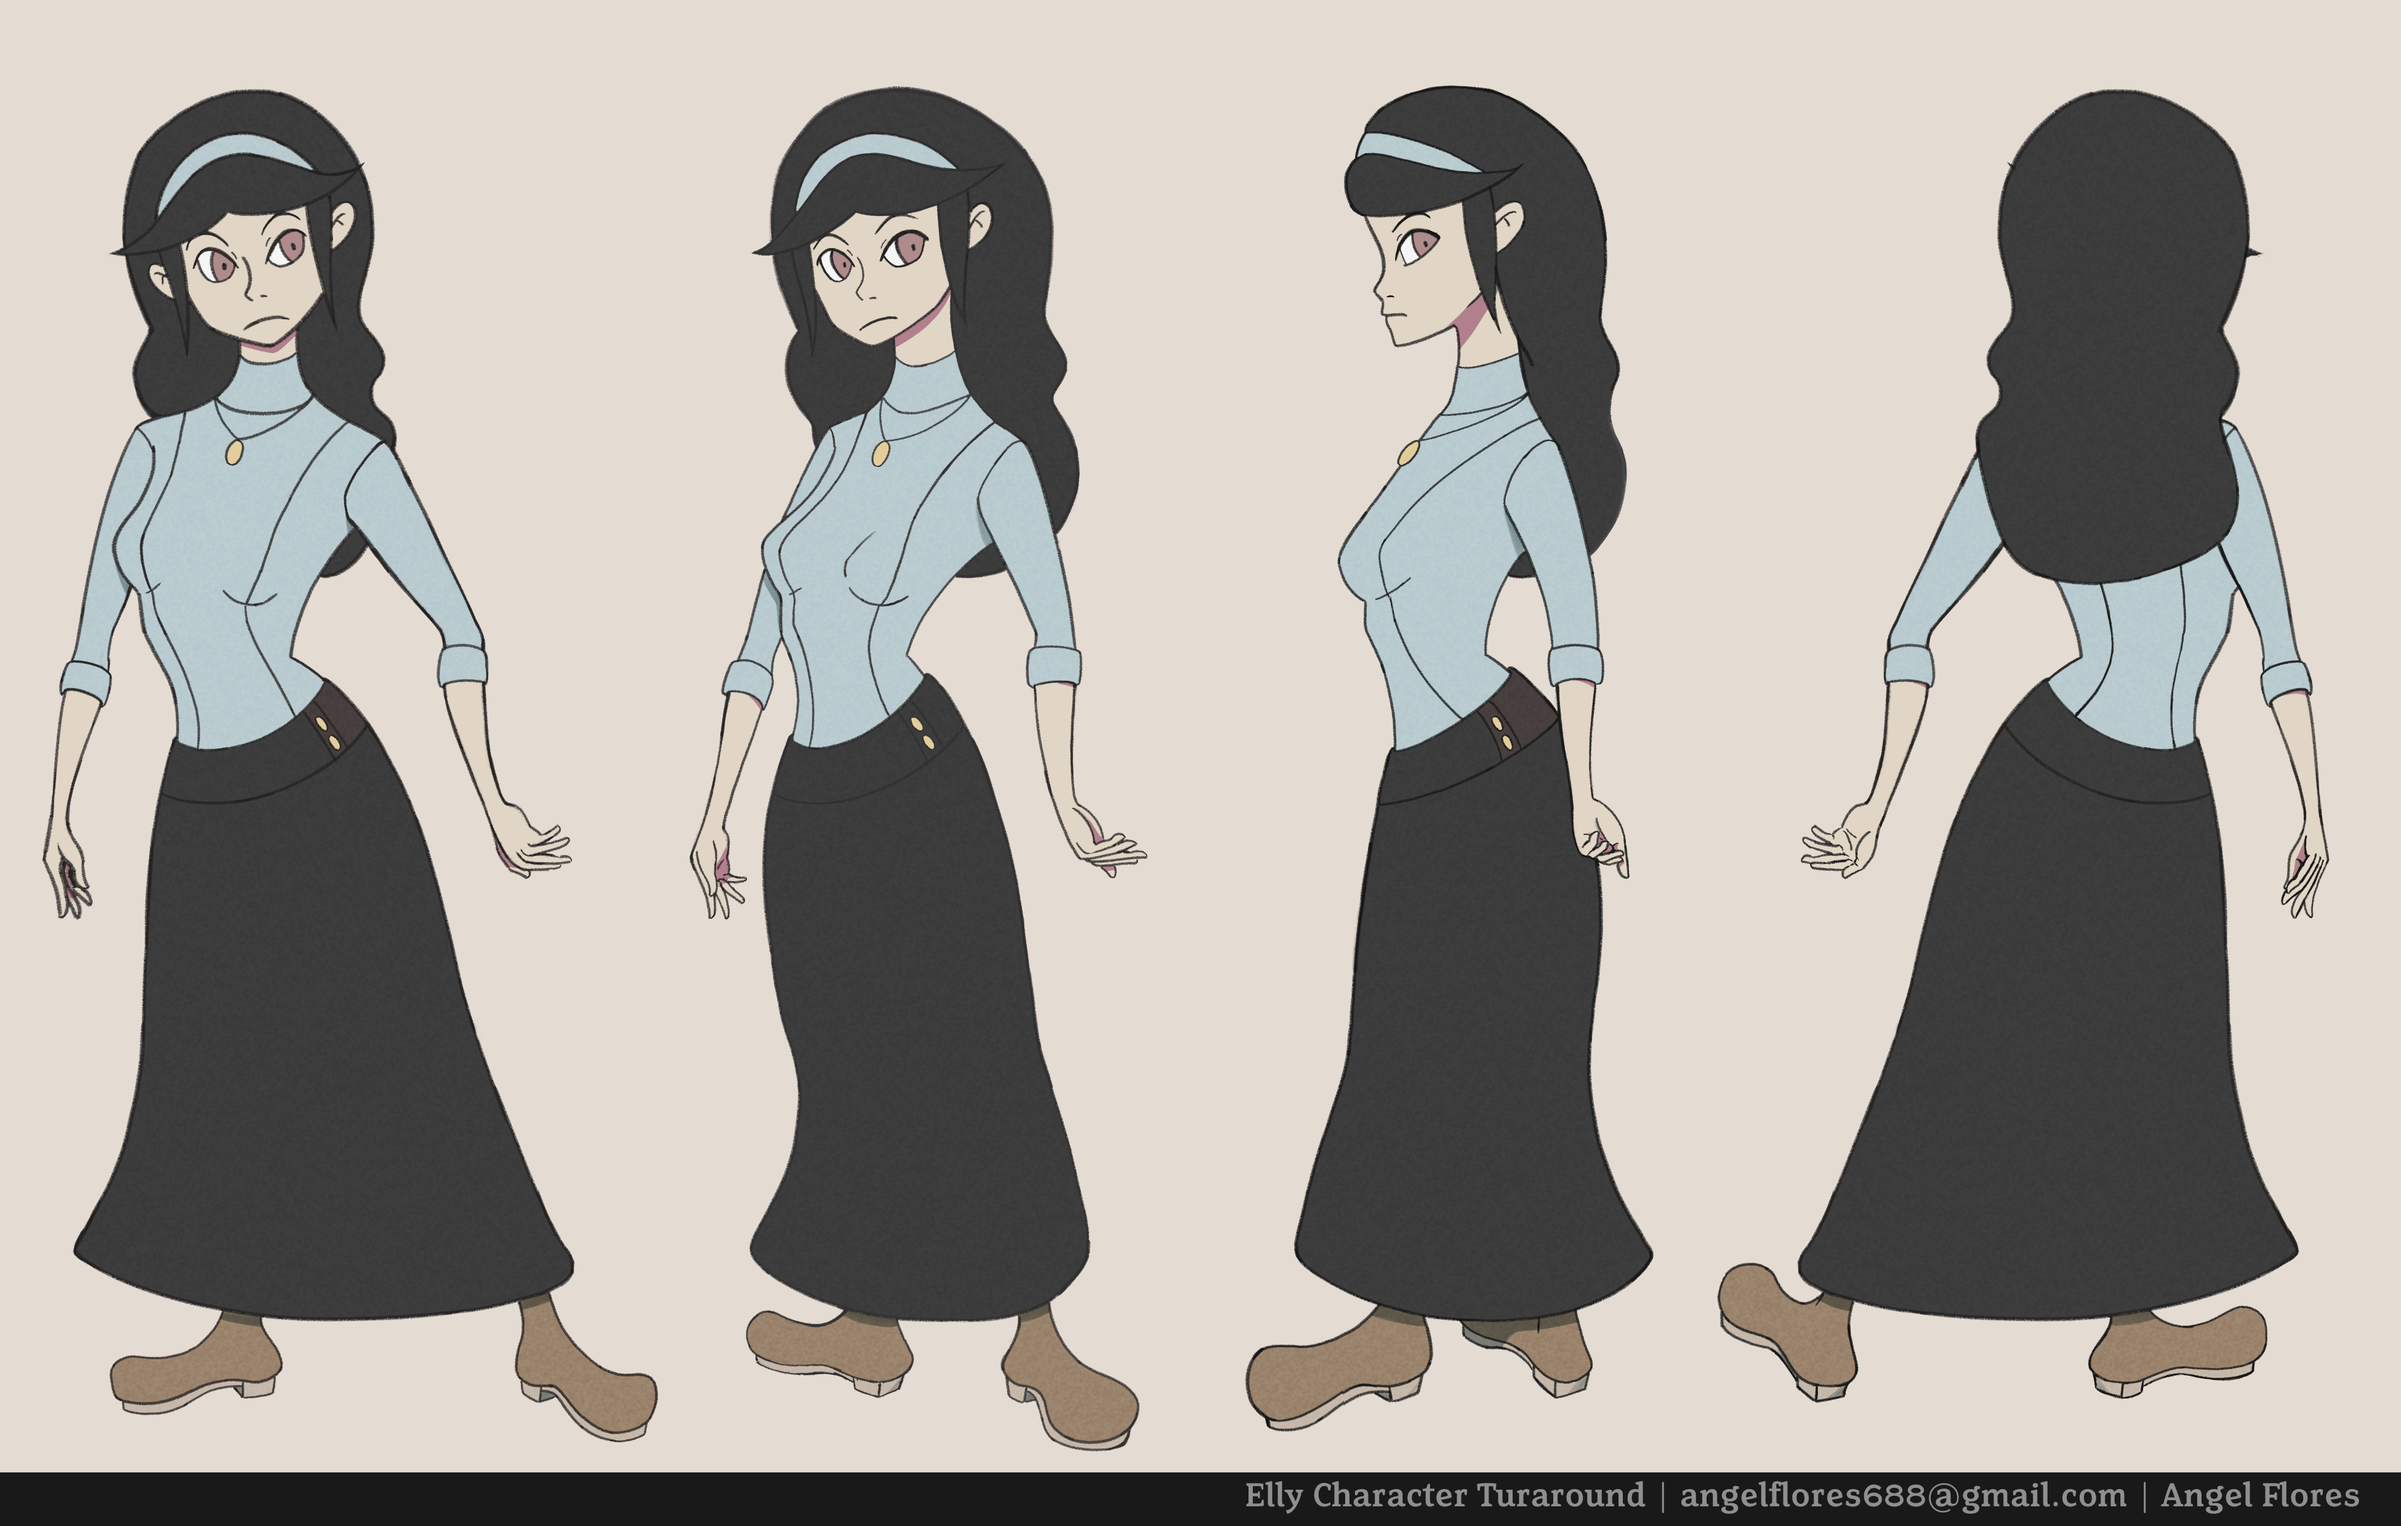
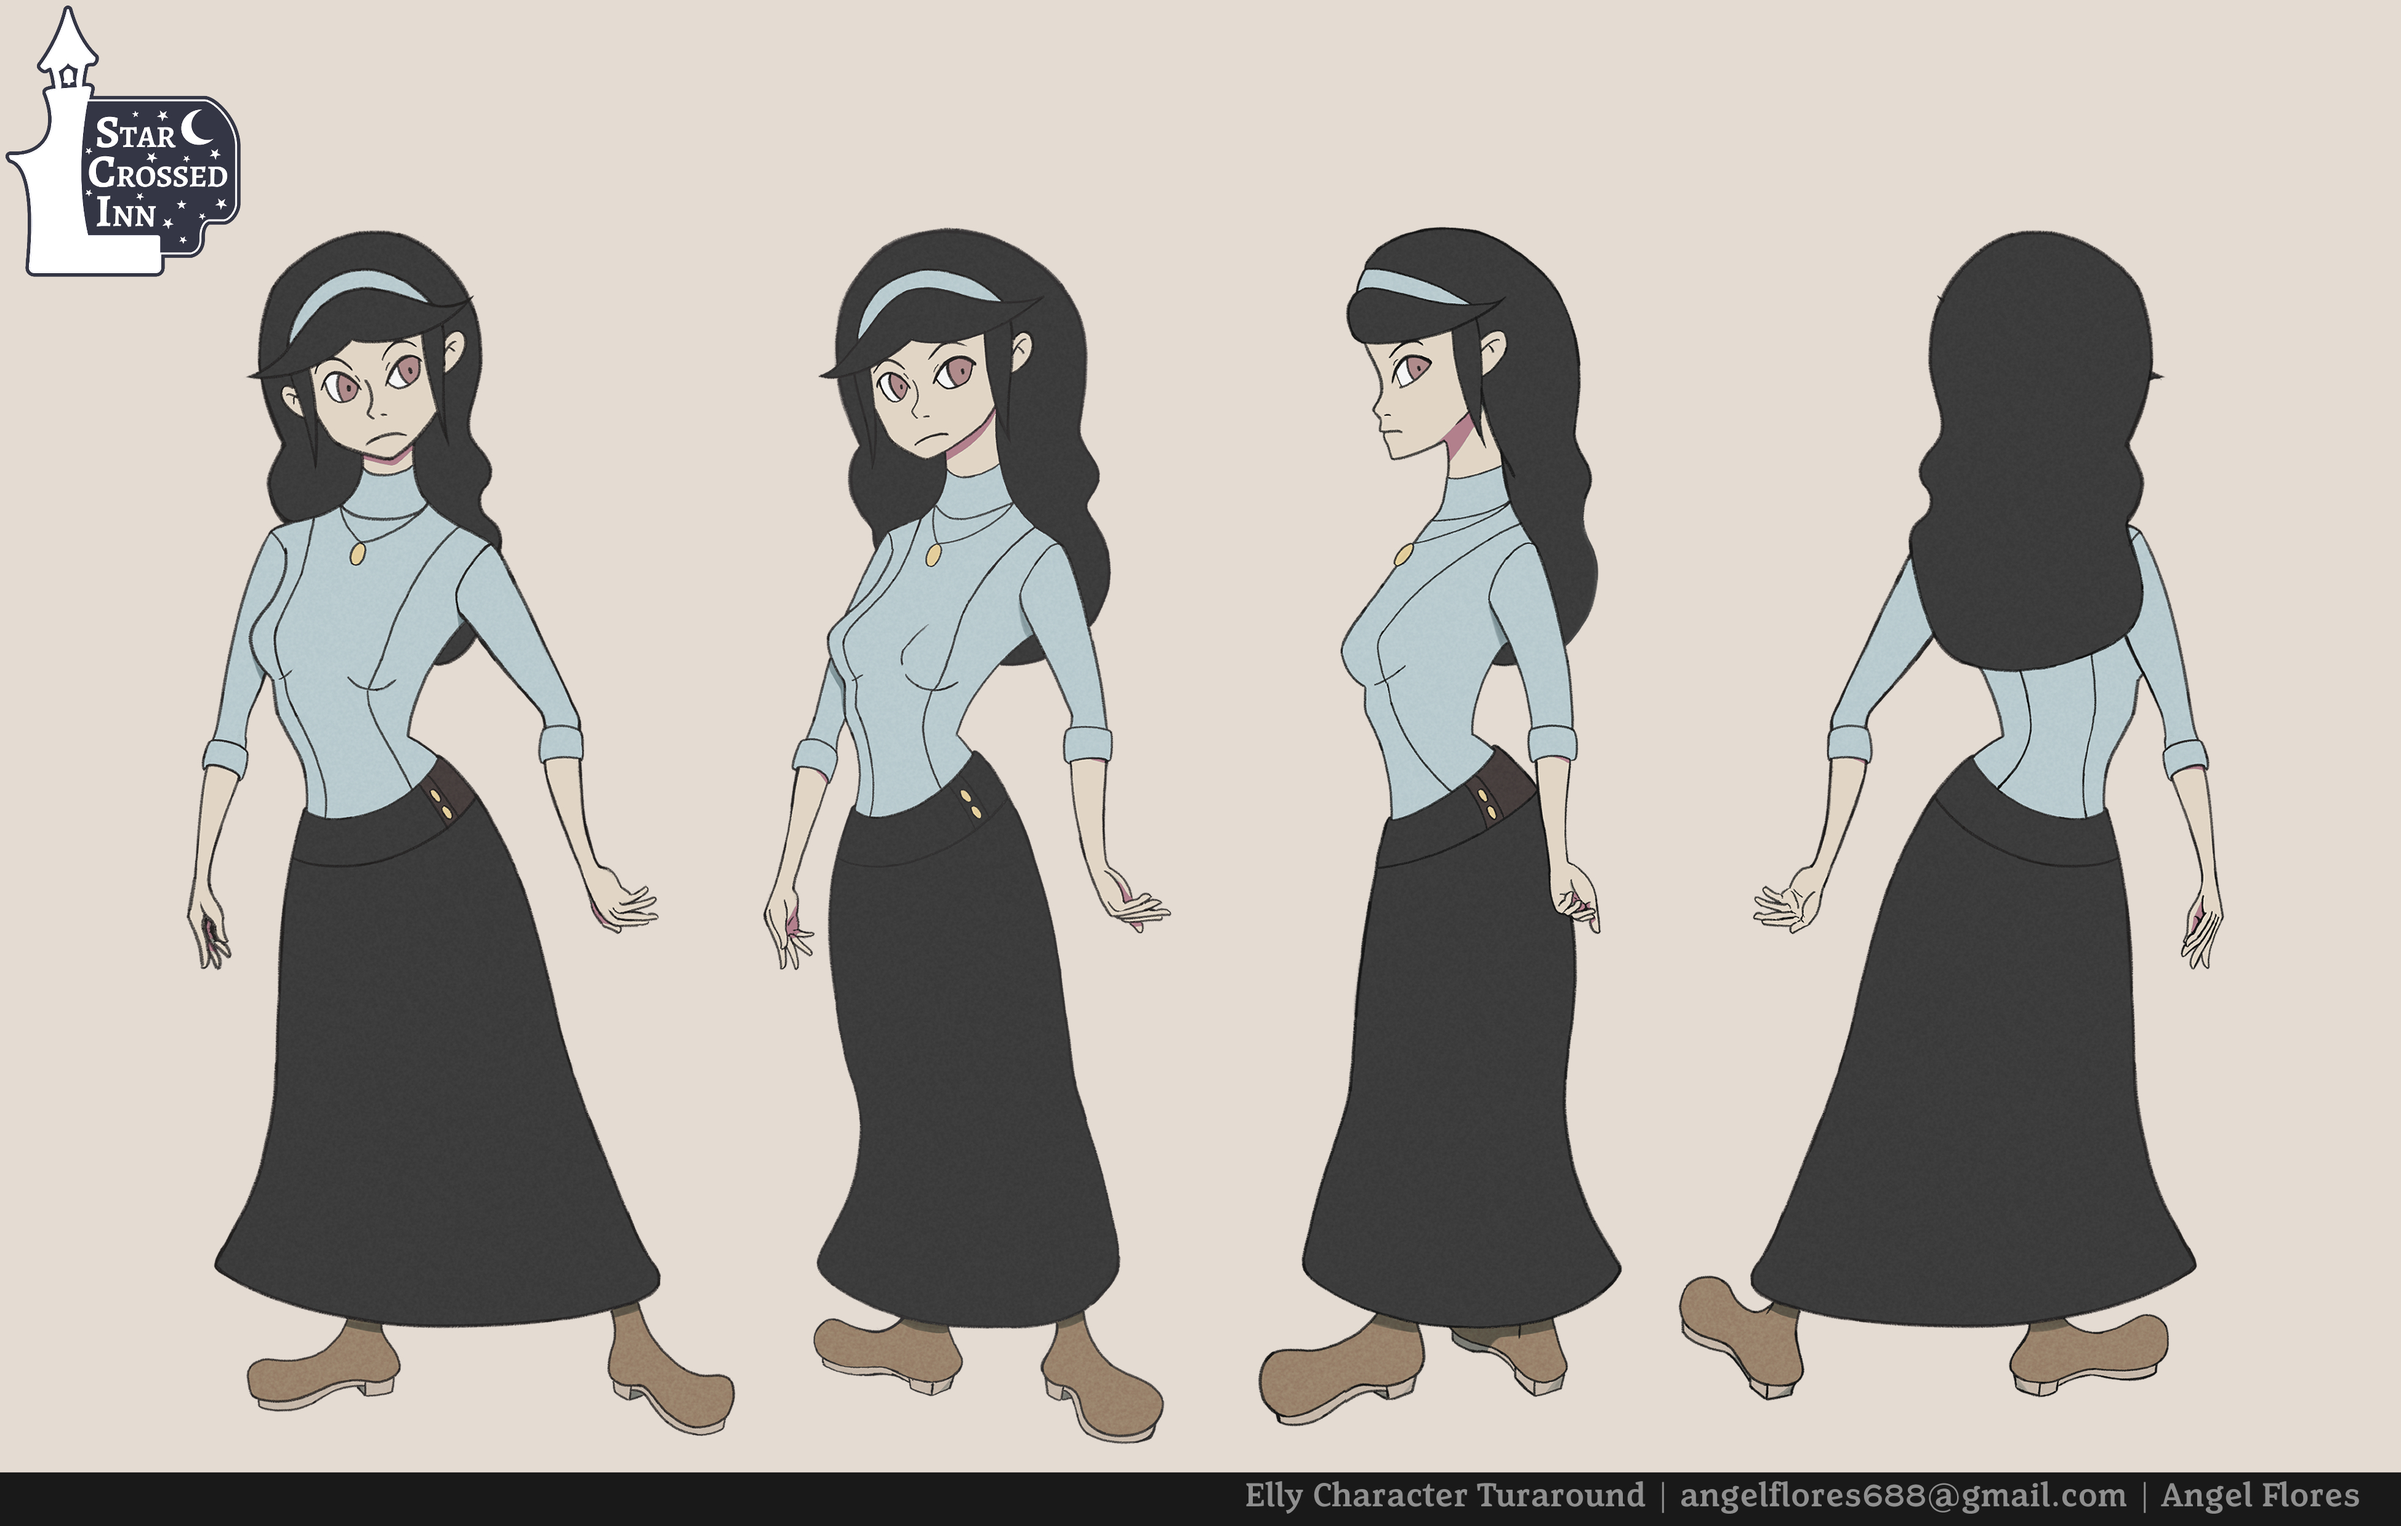
Updated SCI Images

diff --git a/index.html b/index.html
@@ -59,8 +59,11 @@
 					<section id="one" class="wrapper style2 spotlights">
 
 				
-						<br><br>
+						<!-- <br><br>
 						<h2>Star Crossed Inn</h2>
+						<br><br> -->
+
+						<img src="images/StarCrossedInn/JPEG/SCI_0.jpg" width="75%">
 						<br><br>
 
 						<img src="images/StarCrossedInn/JPEG/SCI_5.jpg" width="75%">
